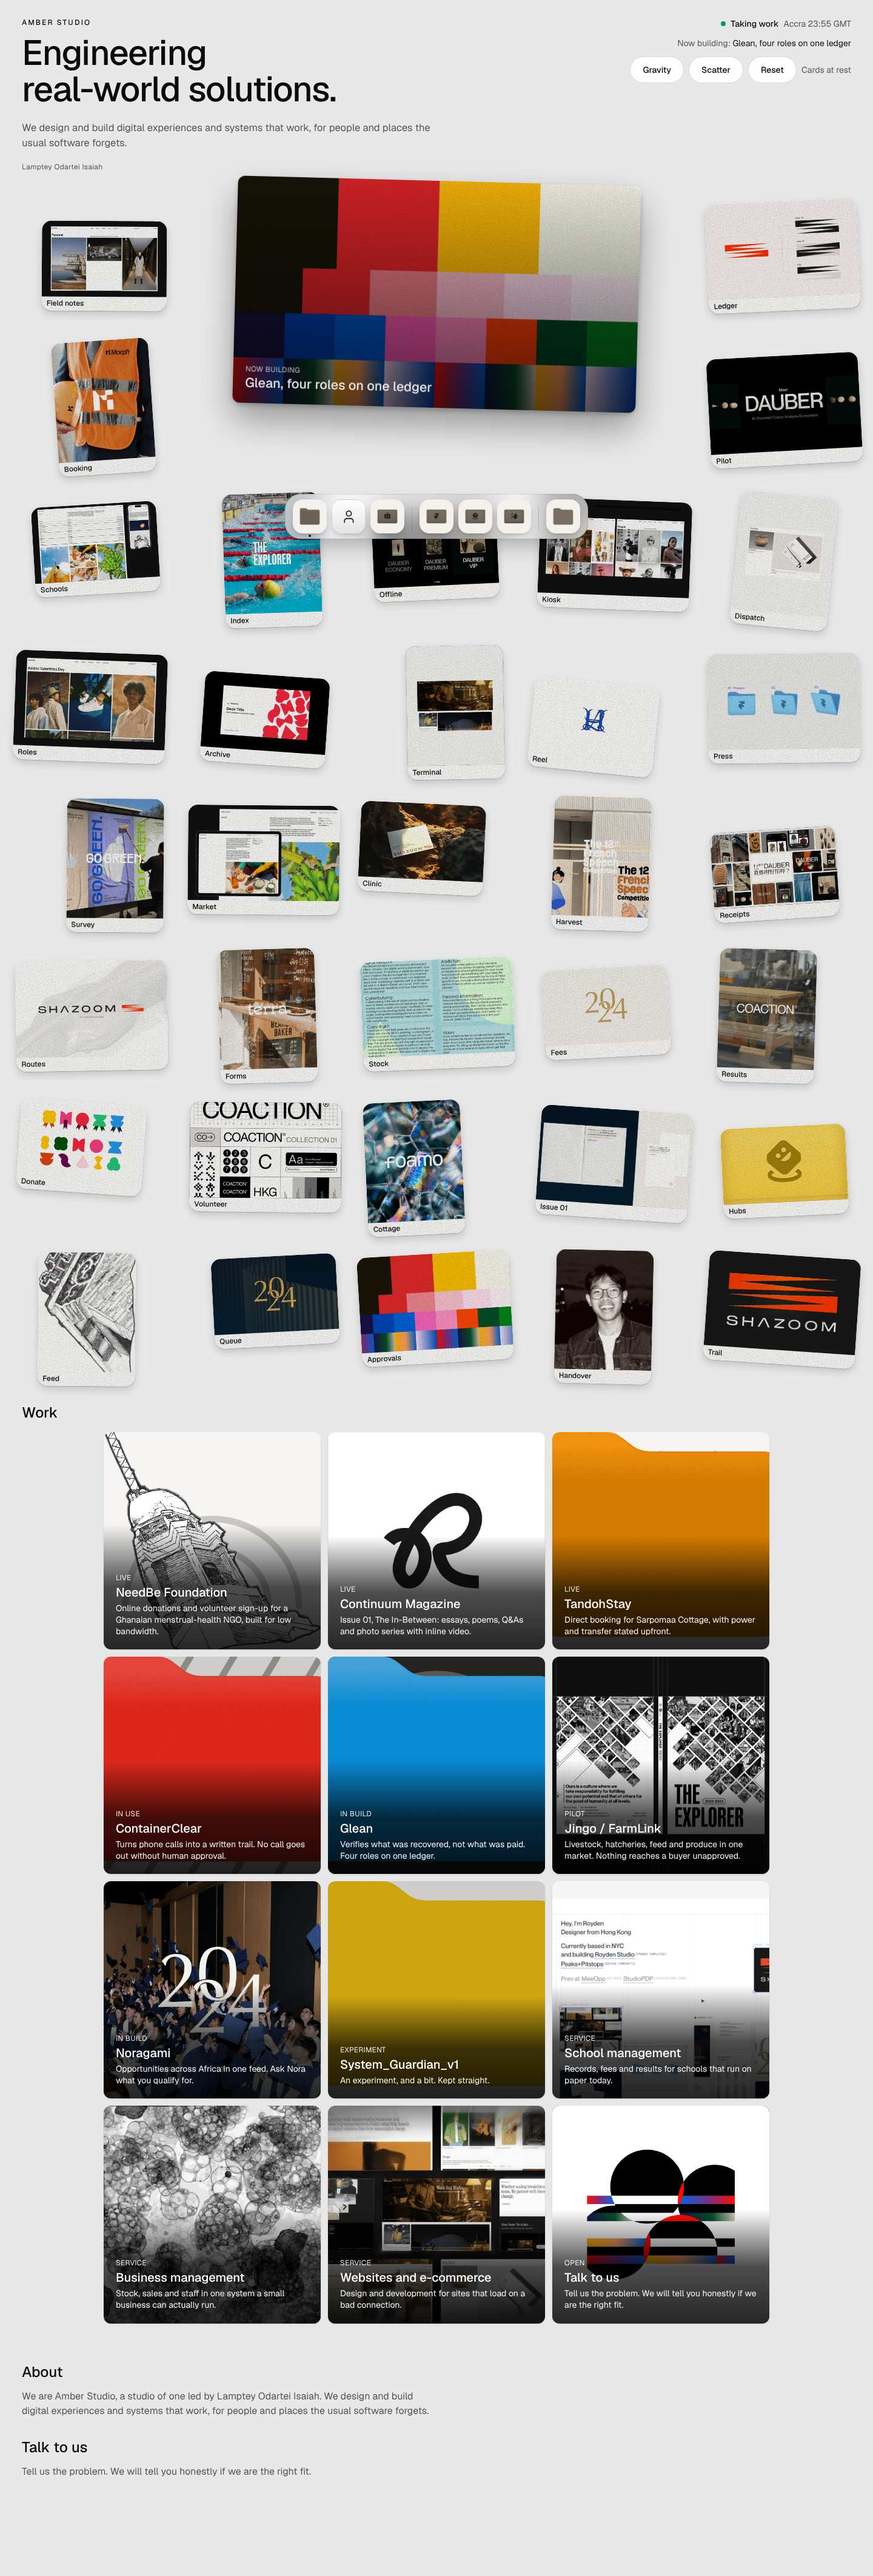
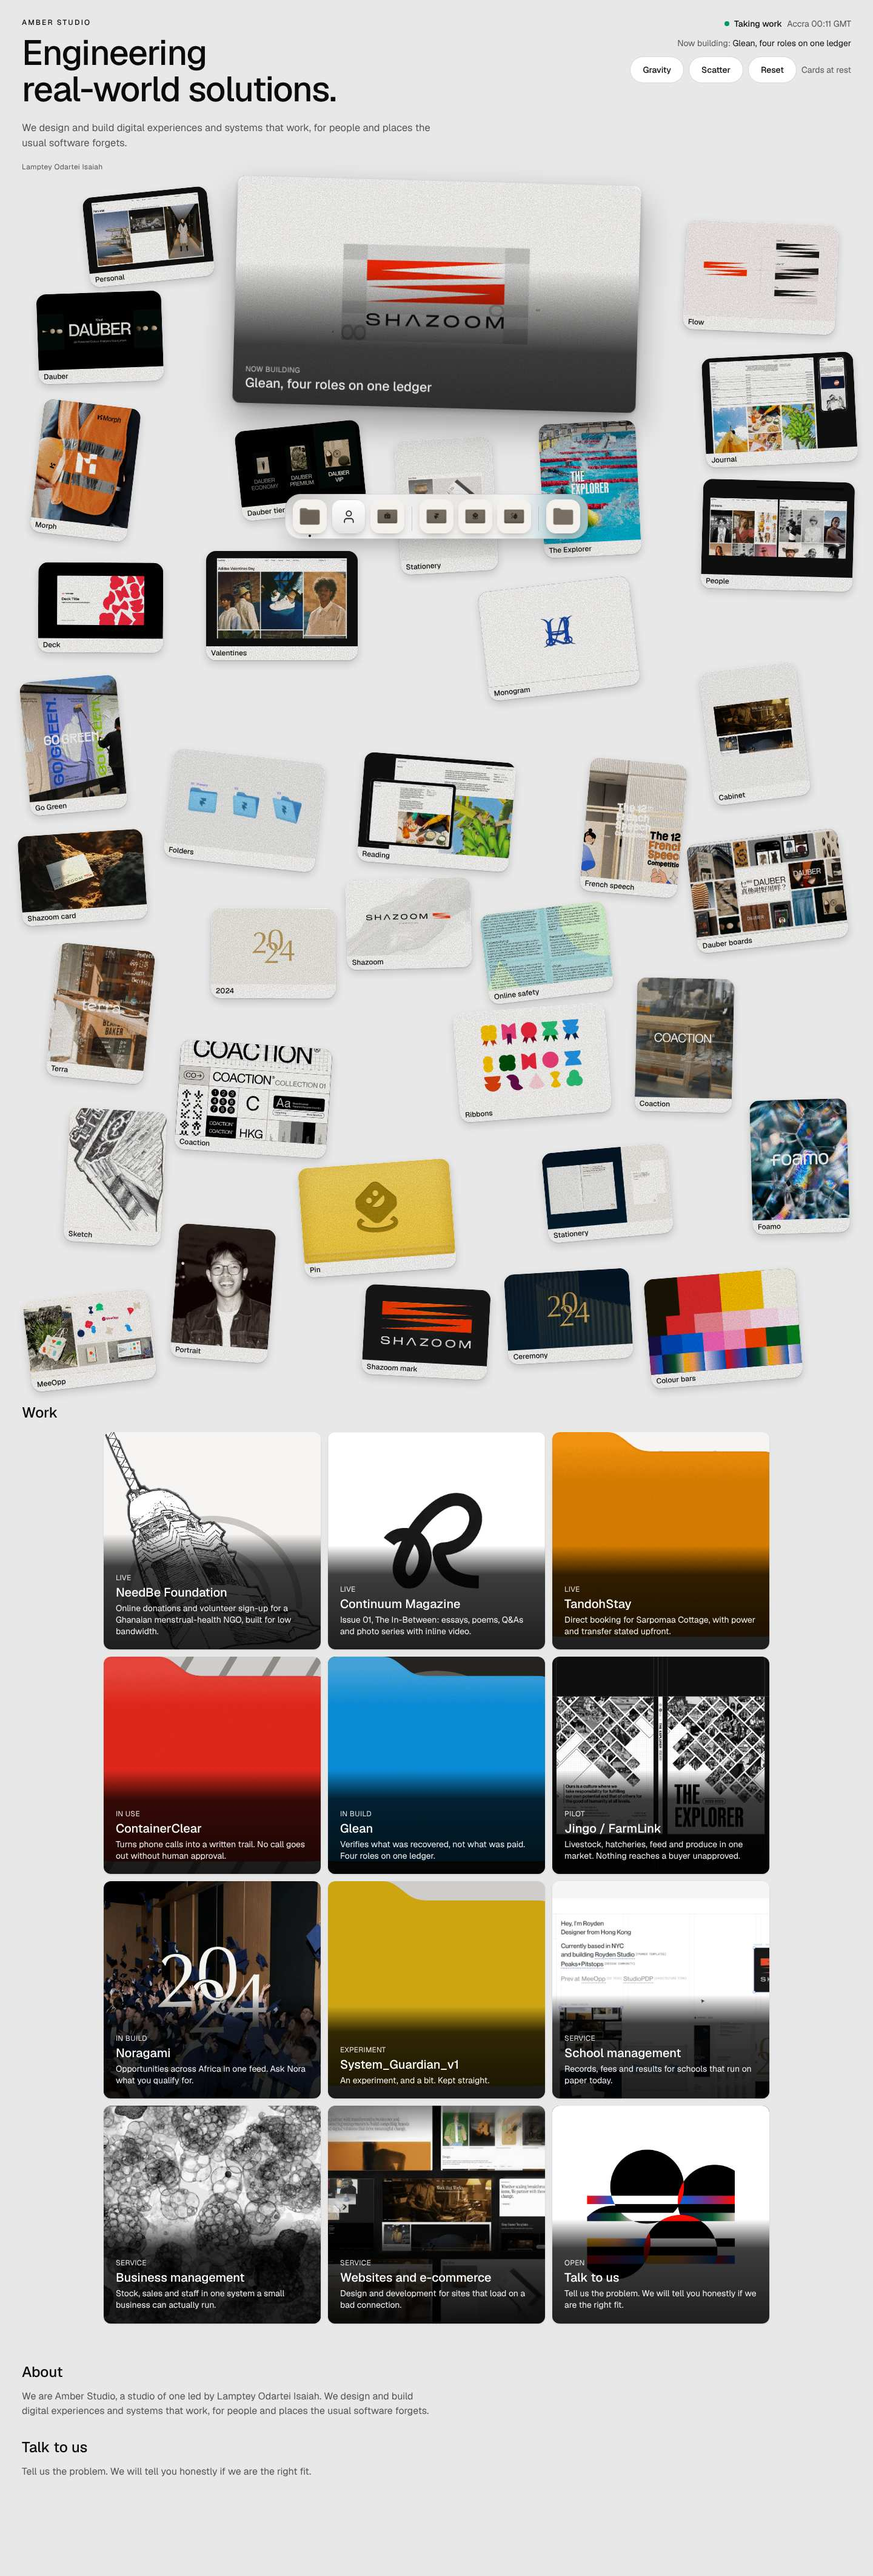
Board mocks: scrims >=.72, hero video twin idle when hidden, image-paired labels, loose scatter
Claude-Session: https://claude.ai/code/session_012MfFGmnE4YHCxLuzPDGsWn

diff --git a/web/src/lib/data/board.ts b/web/src/lib/data/board.ts
@@ -114,75 +114,65 @@ const NAMES = [
 
 export const COLLAGE_HEIGHT = 2000;
 
+/** Dev-only titles paired with the mock images, in the order of scripts/sync-mock-media.mjs. */
+const MOCK_TITLES = {
+	house: ['Personal', 'Flow', 'Dauber', 'Journal', 'Dauber tiers', 'People', 'Valentines', 'Deck', 'Monogram', 'Folders', 'Reading', 'Shazoom card', 'Dauber boards', 'Shazoom', 'Online safety', '2024', 'Ribbons', 'Coaction', 'Stationery', 'Pin', 'Ceremony', 'Colour bars', 'Shazoom mark', 'MeeOpp', 'Forms', 'Journey', 'Showreel', 'Contract', 'Work that works'],
+	portrait: ['Morph', 'The Explorer', 'Stationery', 'Cabinet', 'Go Green', 'French speech', 'Terra', 'Coaction', 'Foamo', 'Sketch', 'Portrait', 'Menu', 'My story', 'Hello']
+} as const;
+const mockTitle = (kind: 'house' | 'portrait', i: number): string | undefined =>
+	import.meta.env.DEV ? MOCK_TITLES[kind][i % MOCK_TITLES[kind].length] : undefined;
+
+type Box = [number, number, number, number];
+
+/** Loose scatter: random-sequential placement (largest first), retried over seeds until all 35 fit. */
 function buildCollage(): CollageItem[] {
-	const rnd = mulberry32(7);
 	const heroH = (HERO.w * 9) / 16;
 	const hero: CollageItem = { ...HERO };
-	const boxes: Array<[number, number, number, number]> = [[hero.x, hero.y, hero.x + hero.w, hero.y + heroH]];
-	const items: CollageItem[] = [];
-	// Mix of kinds: ~ 2/3 house (both widths), 1/3 portrait.
+	const CLEAR = 16; // px clearance, absorbs rotation (up to +-7deg)
+	const hits = (a: Box, b: Box) =>
+		a[0] < b[2] + CLEAR && a[2] + CLEAR > b[0] && a[1] < b[3] + CLEAR && a[3] + CLEAR > b[1];
+	// 12 portrait (160), 12 house 250, 11 house 206: the measured sizes, nothing new.
 	const plan: Array<[CardKind, number]> = [];
 	for (let i = 0; i < 35; i++) plan.push(i % 3 === 2 ? ['portrait', 160] : ['house', i % 2 ? 250 : 206]);
-	const CLEAR = 12; // px clearance, absorbs rotation
-	const hits = (a: number[], b: number[]) =>
-		a[0] < b[2] + CLEAR && a[2] + CLEAR > b[0] && a[1] < b[3] + CLEAR && a[3] + CLEAR > b[1];
-	// Cell-based packing: 5 columns x 8 rows, jittered inside each cell; a cell is skipped
-	// only when no jittered position clears the hero (or its neighbours) by CLEAR px.
-	const COLS = 5;
-	const ROWS = 8;
-	const cw = BOARD_WIDTH / COLS;
-	const ch = COLLAGE_HEIGHT / ROWS;
-	let n = 0;
-	let p = 0;
-	const seen = { house: 0, portrait: 0 };
-	for (let r = 0; r < ROWS; r++) {
-		for (let c = 0; c < COLS; c++) {
-			if (n >= 35) break;
-			const [kind, w] = plan[p % plan.length];
+	const area = ([k, w]: [CardKind, number]) => w * (k === 'portrait' ? 220 : w / HOUSE_ASPECT);
+	plan.sort((a, b) => area(b) - area(a));
+
+	for (let seed = 7; seed < 3000; seed++) {
+		const rnd = mulberry32(seed);
+		const boxes: Box[] = [[hero.x, hero.y, hero.x + hero.w, hero.y + heroH]];
+		const placed: Array<{ kind: CardKind; w: number; x: number; y: number; rot: number }> = [];
+		for (const [kind, w] of plan) {
 			const h = kind === 'portrait' ? 220 : w / HOUSE_ASPECT;
-			let best: [number, number] | null = null;
-			for (let t = 0; t < 60 && !best; t++) {
-				const x = c * cw + 12 + rnd() * Math.max(0, cw - w - 24);
-				const y = r * ch + 12 + rnd() * Math.max(0, ch - h - 24);
-				const box = [x, y, x + w, y + h];
-				if (x < 20 || x + w > BOARD_WIDTH - 20) continue;
+			for (let t = 0; t < 500; t++) {
+				const x = 20 + rnd() * (BOARD_WIDTH - w - 40);
+				const y = 12 + rnd() * (COLLAGE_HEIGHT - h - 24);
+				const box: Box = [x, y, x + w, y + h];
 				if (boxes.some((o) => hits(box, o))) continue;
-				best = [x, y];
+				boxes.push(box);
+				placed.push({ kind, w, x: Math.round(x), y: Math.round(y), rot: Math.round((rnd() - 0.5) * 140) / 10 });
+				break;
 			}
-			if (!best) continue;
-			p++;
-			const [x, y] = best;
-			boxes.push([x, y, x + w, y + h]);
-			items.push({
+		}
+		if (placed.length < 35) continue;
+		// Reading order top-to-bottom so ids, labels and image indices follow the canvas.
+		placed.sort((a, b) => a.y - b.y || a.x - b.x);
+		const seen = { house: 0, portrait: 0 };
+		const items: CollageItem[] = placed.map((c, n) => {
+			const k = c.kind as 'house' | 'portrait';
+			const idx = seen[k]++;
+			return {
 				id: `c${n}`,
-				kind,
-				w,
-				x: Math.round(x),
-				y: Math.round(y),
-				rot: Math.round((rnd() - 0.5) * (n % 4 === 0 ? 150 : 80)) / 10,
+				...c,
 				art: ARTS[n % ARTS.length],
 				tone: TONES[(n + Math.floor(n / 8)) % TONES.length],
-				label: NAMES[n % NAMES.length],
-				caption: kind === 'portrait' ? undefined : 'Real world, built',
-				mockSrc: mock(kind as 'house' | 'portrait', seen[kind as 'house' | 'portrait']++)
-			});
-			n++;
-		}
+				label: mockTitle(k, idx) ?? NAMES[n % NAMES.length],
+				caption: c.kind === 'portrait' ? undefined : 'Real world, built',
+				mockSrc: mock(k, idx)
+			};
+		});
+		return [...items, hero];
 	}
-	// Top up skipped cells with any free spot on the canvas.
-	for (let guard = 0; n < 35 && guard < 400; guard++) {
-		const [kind, w] = plan[p % plan.length];
-		const h = kind === 'portrait' ? 220 : w / HOUSE_ASPECT;
-		const x = 20 + rnd() * (BOARD_WIDTH - w - 40);
-		const y = 12 + rnd() * (COLLAGE_HEIGHT - h - 24);
-		const box = [x, y, x + w, y + h];
-		if (boxes.some((o) => hits(box, o))) continue;
-		p++;
-		boxes.push([x, y, x + w, y + h]);
-		items.push({ id: `c${n}`, kind, w, x: Math.round(x), y: Math.round(y), rot: Math.round((rnd() - 0.5) * 80) / 10, art: ARTS[n % ARTS.length], tone: TONES[(n + Math.floor(n / 8)) % TONES.length], label: NAMES[n % NAMES.length], caption: kind === 'portrait' ? undefined : 'Real world, built', mockSrc: mock(kind as 'house' | 'portrait', seen[kind as 'house' | 'portrait']++) });
-		n++;
-	}
-	return [...items, hero];
+	throw new Error('collage: could not place all cards');
 }
 
 export const collage: CollageItem[] = buildCollage();

diff --git a/web/src/lib/components/board/MockVideo.svelte b/web/src/lib/components/board/MockVideo.svelte
@@ -11,16 +11,27 @@
 	let failed = $state(false);
 	let video: HTMLVideoElement | undefined = $state();
 
+	// Play only while the element is actually rendered (a display:none twin never intersects)
+	// and motion is allowed; otherwise stay paused. preload="none" keeps the hidden twin idle.
 	$effect(() => {
 		if (!video) return;
+		const el = video;
 		const mq = window.matchMedia('(prefers-reduced-motion: reduce)');
+		let visible = false;
 		const sync = () => {
-			if (mq.matches) video?.pause();
-			else video?.play().catch(() => {});
+			if (visible && !mq.matches) el.play().catch(() => {});
+			else el.pause();
 		};
-		sync();
+		const io = new IntersectionObserver((entries) => {
+			visible = entries.some((e) => e.isIntersecting && el.offsetWidth > 0);
+			sync();
+		});
+		io.observe(el);
 		mq.addEventListener('change', sync);
-		return () => mq.removeEventListener('change', sync);
+		return () => {
+			io.disconnect();
+			mq.removeEventListener('change', sync);
+		};
 	});
 </script>
 
@@ -32,7 +43,7 @@
 		muted
 		loop
 		playsinline
-		preload="metadata"
+		preload="none"
 		aria-hidden="true"
 		tabindex="-1"
 		class="absolute inset-0 h-full w-full object-cover"

diff --git a/web/src/lib/components/board/HeroCard.svelte b/web/src/lib/components/board/HeroCard.svelte
@@ -12,7 +12,8 @@
 	<Placeholder art={item.art} tone={item.tone} class="h-full w-full" />
 	<MockMedia src={item.mockPoster} />
 	<MockVideo src={item.mockSrc} poster={item.mockPoster} />
-	{#if item.mockSrc}<div class="absolute inset-0 bg-gradient-to-t from-black/60 to-transparent"></div>{/if}
+	<!-- Scrim: >= .72 black behind the caption so white text holds 4.5:1 on any imagery. -->
+	<div class="absolute inset-0" style="background:linear-gradient(to top,rgba(0,0,0,.8) 0,rgba(0,0,0,.74) 26%,rgba(0,0,0,0) 62%)"></div>
 	<div class="absolute inset-x-0 bottom-0 p-[1.4cqw] text-white">
 		<p class="text-[clamp(12px,0.8cqw,13px)] tracking-wide uppercase opacity-80">{item.label}</p>
 		<p class="text-[clamp(15px,1.5cqw,22px)] leading-tight font-medium">{item.caption}</p>

diff --git a/web/src/lib/components/board/WorkCard.svelte b/web/src/lib/components/board/WorkCard.svelte
@@ -20,7 +20,7 @@
 >
 	<Placeholder art={item.art} tone={item.tone} class="absolute inset-0 h-full w-full" />
 	<MockMedia src={item.mockSrc} />
-	<div class="absolute inset-x-0 bottom-0 flex flex-col gap-1 bg-gradient-to-t from-black/85 via-black/70 to-transparent p-5 pt-20 text-white">
+	<div class="absolute inset-x-0 bottom-0 flex flex-col gap-1 p-5 pt-16 text-white" style="background:linear-gradient(to top,rgba(0,0,0,.88) 0,rgba(0,0,0,.76) 72%,rgba(0,0,0,0) 100%)">
 		<span class="text-xs tracking-wide uppercase text-white/90">{item.status}</span>
 		<h3 class="text-xl leading-tight font-medium">{item.title}</h3>
 		<p class="text-sm leading-snug text-white/95">{item.blurb}</p>
